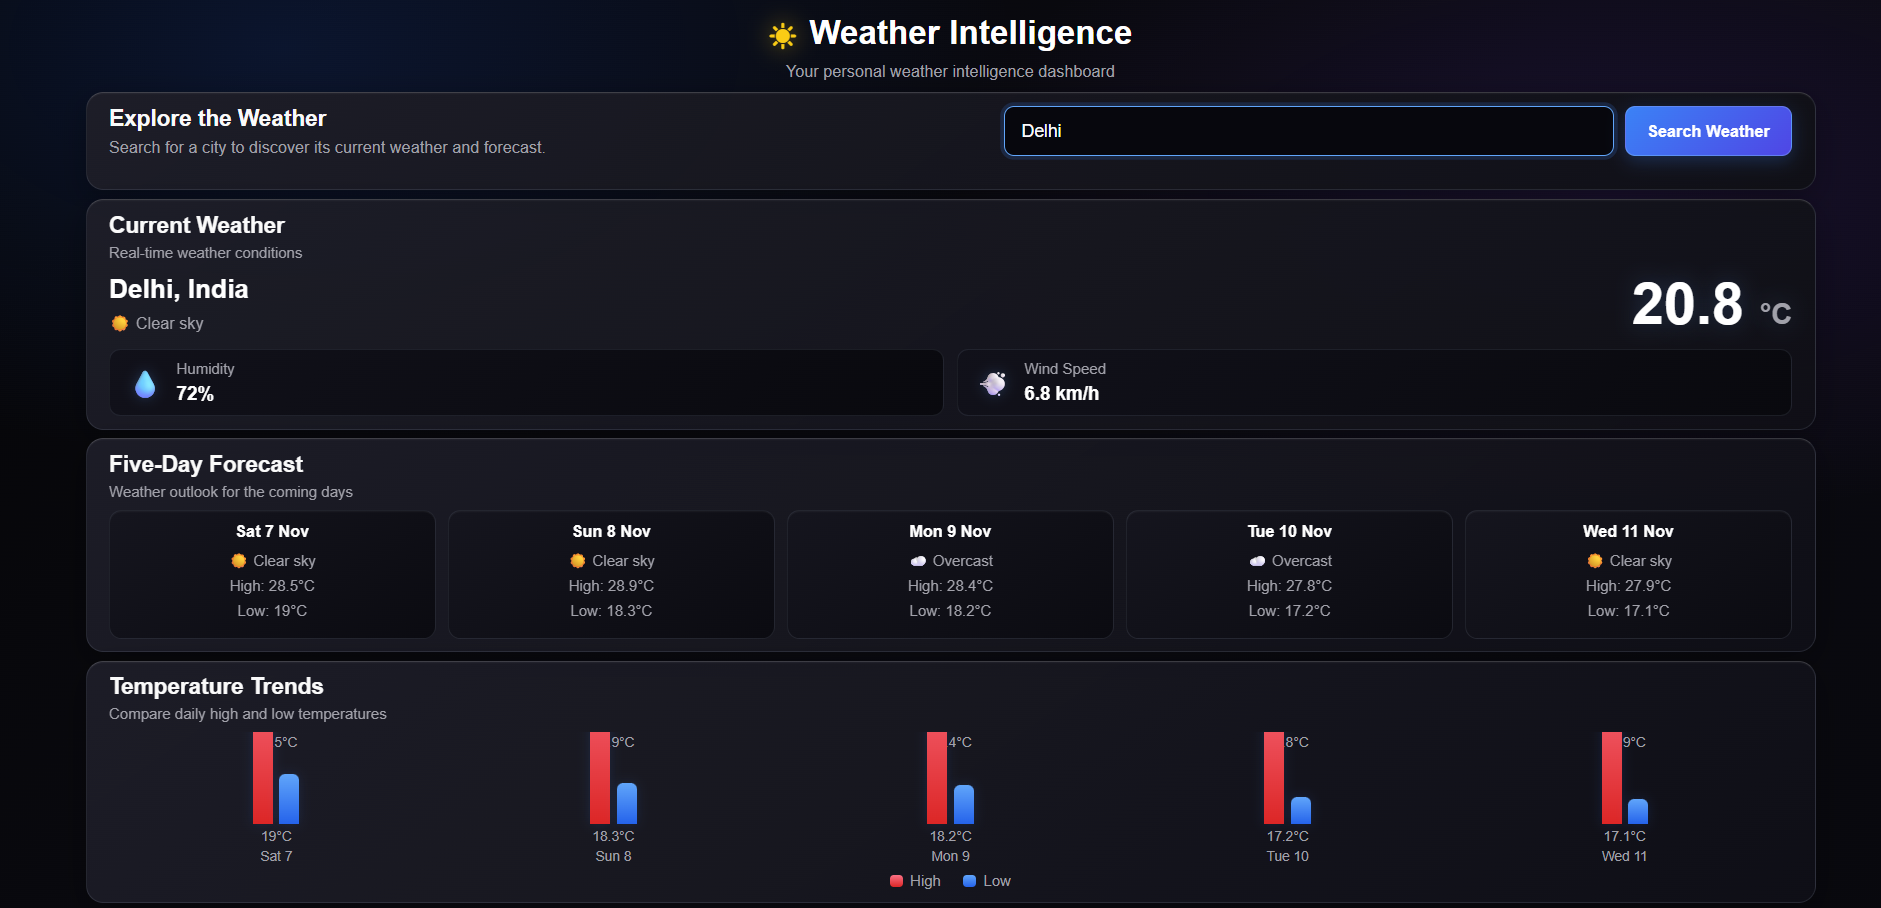
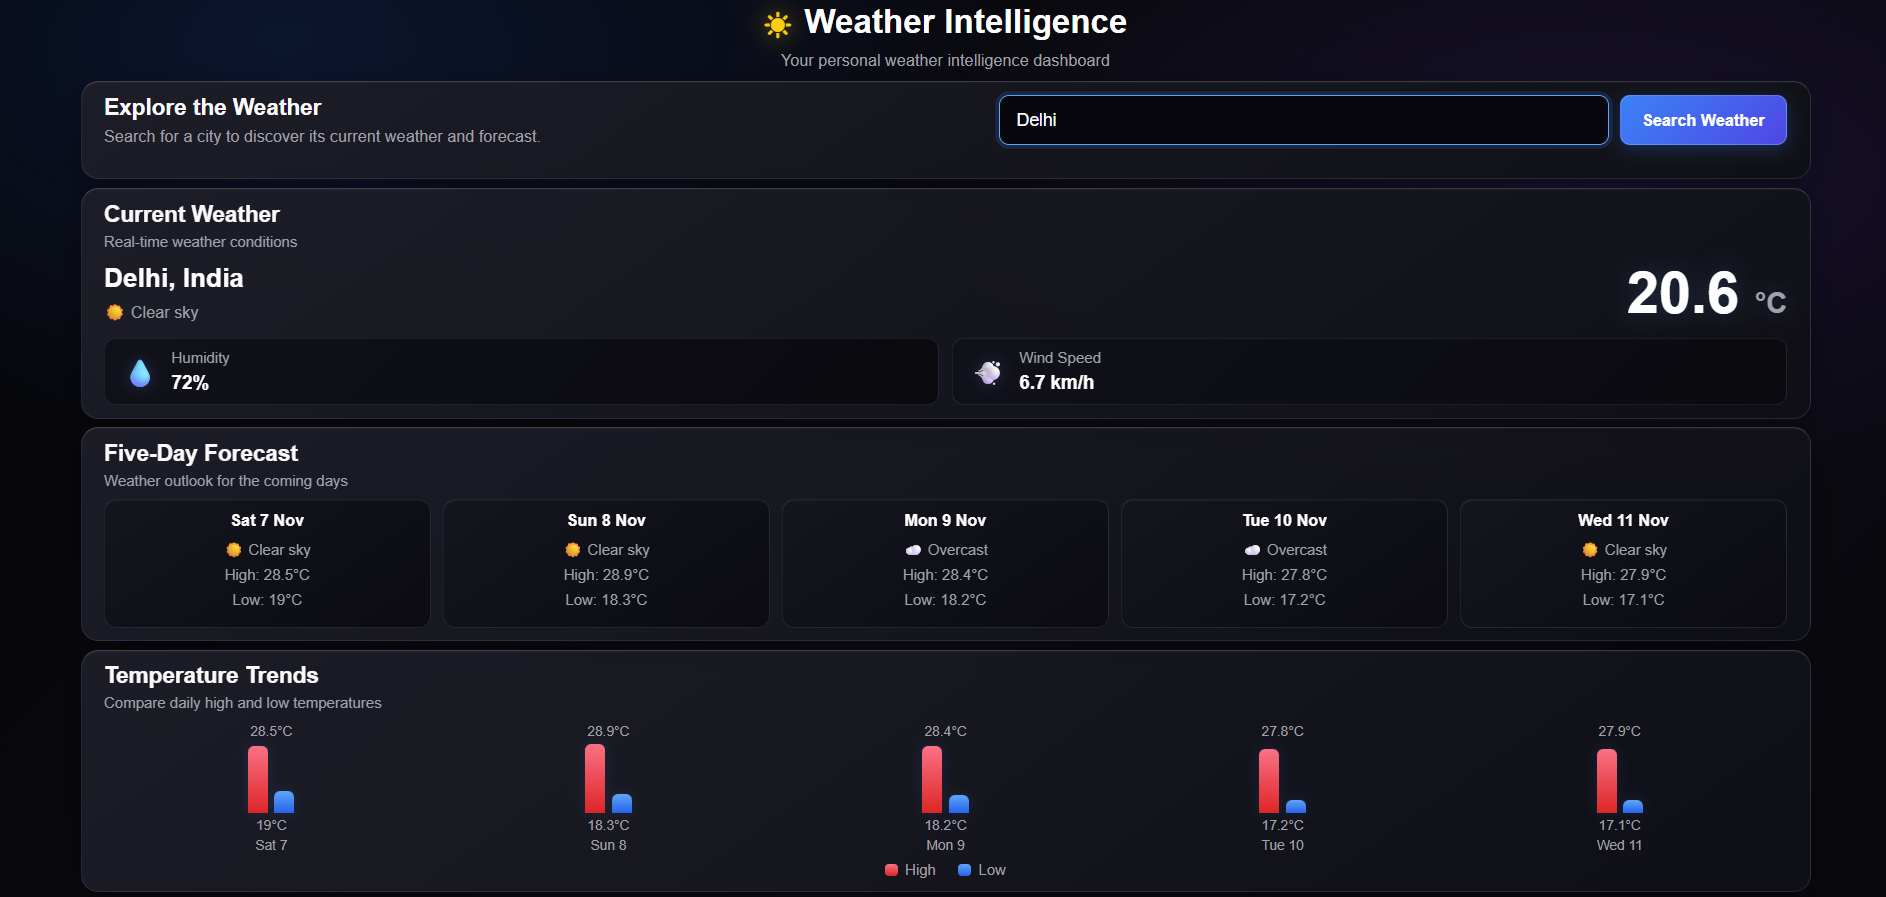
Fix temperature chart labels and update screenshot

diff --git a/static/script.js b/static/script.js
@@ -59,10 +59,10 @@ function renderTemperatureChart(forecast) {
     });
 
     const highHeight =
-      ((day.max_temperature - minTemperature) / temperatureRange) * 120 + 20;
+      ((day.max_temperature - minTemperature) / temperatureRange) * 45 + 10;
 
     const lowHeight =
-      ((day.min_temperature - minTemperature) / temperatureRange) * 120 + 20;
+      ((day.min_temperature - minTemperature) / temperatureRange) * 45 + 10;
 
     const highLabel = document.createElement("p");
     highLabel.textContent = `${day.max_temperature}°C`;
